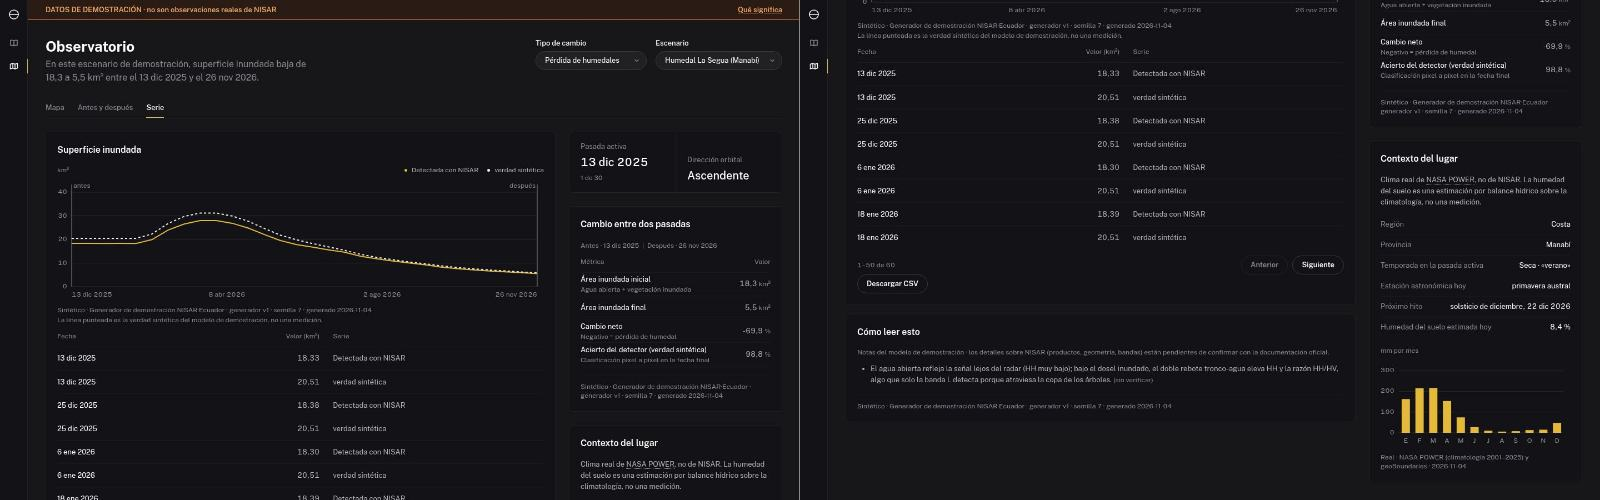
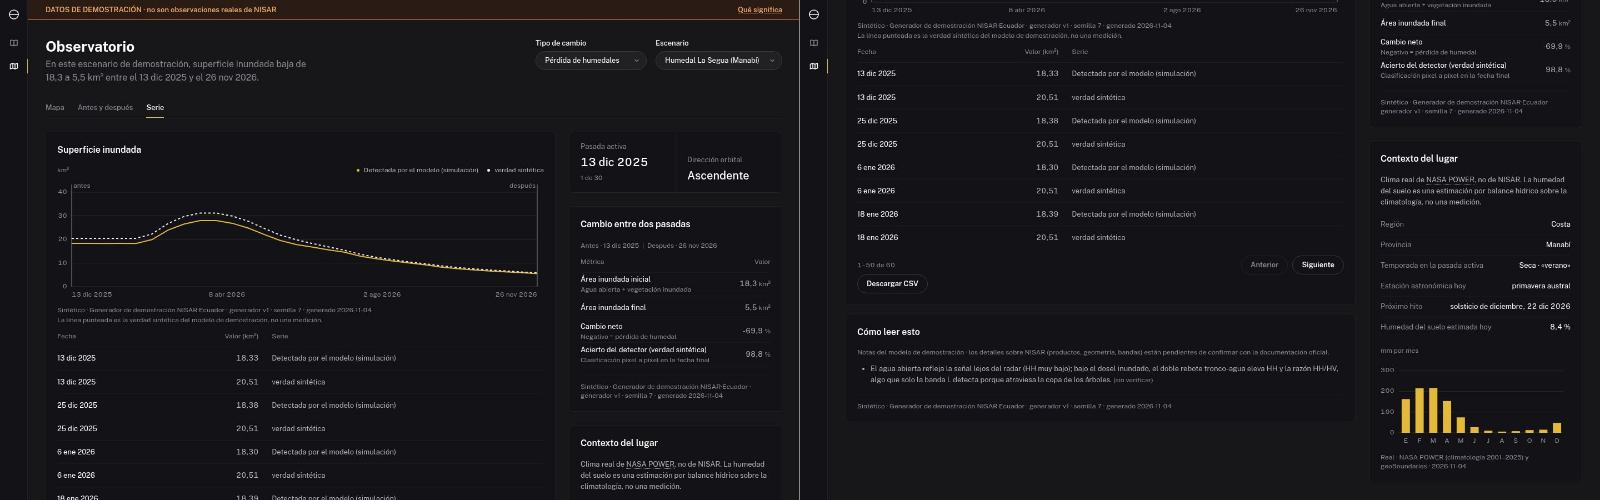
fix(datos): el demo no atribuye detecciones a NISAR

diff --git a/frontend/src/pantallas/observatorio/observatorio.test.tsx b/frontend/src/pantallas/observatorio/observatorio.test.tsx
@@ -45,8 +45,8 @@ const CAMBIO = {
   capas_extra: [], clasificacion: null, notas: [], tablas: [], vectores: null, origen: origenSint,
   metricas: [{ etiqueta: 'Área inundada inicial', valor: '26,8', unidad: 'km²', ayuda: 'Agua abierta + vegetación inundada' }],
   series: [{ titulo: 'Superficie inundada', unidad: 'km²', origen: origenSint, puntos: [
-    ['2026-04-12T00:00:00Z', 26.8, 'Detectada con NISAR'], ['2026-04-24T00:00:00Z', 20.1, 'Detectada con NISAR'],
-    ['2026-05-06T00:00:00Z', 9.0, 'Detectada con NISAR'], ['2026-05-18T00:00:00Z', 5.5, 'Detectada con NISAR'],
+    ['2026-04-12T00:00:00Z', 26.8, 'Detectada por el modelo (simulación)'], ['2026-04-24T00:00:00Z', 20.1, 'Detectada por el modelo (simulación)'],
+    ['2026-05-06T00:00:00Z', 9.0, 'Detectada por el modelo (simulación)'], ['2026-05-18T00:00:00Z', 5.5, 'Detectada por el modelo (simulación)'],
     ['2026-05-18T00:00:00Z', 5.8, 'Verdad del modelo'],
   ] }],
 }

diff --git a/datos/proveedores/demo.py b/datos/proveedores/demo.py
@@ -70,11 +70,21 @@ def _slug(texto: str) -> str:
 _NUM = re.compile(r"^([−+\-]?\d+(?:[\s\u2009\u00a0]\d{3})*(?:,\d+)?(?:[\s\u2009\u00a0]mil)?)\s*(.*)$")
 
 
+_DETECTADA_NISAR = re.compile(r"detectad[oa]s?\s+(?:con|por)\s+NISAR", re.IGNORECASE)
+
+
+def _sin_nisar(texto: str) -> str:
+    """Los datos de demostración no los detecta NISAR: lo hace el modelo de simulación (regla 7).
+    Se aplica a series, métricas, tablas y leyendas; las `notas` conservan su propio aviso."""
+    texto = _DETECTADA_NISAR.sub("Detectada por el modelo (simulación)", str(texto))
+    return re.sub(r"\bNISAR\b", "el modelo", texto)
+
+
 def _metrica(etiqueta: str, valor: str, ayuda: str) -> Metrica:
     """Separa «12,3 km²» en valor y unidad; si no tiene forma numérica, deja el texto entero."""
     m = _NUM.match(str(valor).strip())
     num, unidad = (m.group(1).strip(), m.group(2)) if m else (str(valor), "")
-    return Metrica(etiqueta=str(etiqueta), valor=num, unidad=unidad, ayuda=str(ayuda))
+    return Metrica(etiqueta=_sin_nisar(etiqueta), valor=num, unidad=unidad, ayuda=_sin_nisar(ayuda))
 
 
 def _utc(d: date) -> datetime:
@@ -136,10 +146,10 @@ def _celda(v):
     except (TypeError, ValueError):
         pass
     if isinstance(v, (bool, np.bool_)):
-        return str(v)
+        return _sin_nisar(str(v))
     if isinstance(v, (int, float, np.floating, np.integer)):
         return float(v)
-    return str(v)
+    return _sin_nisar(str(v))
 
 
 def _capa_de_panel(escenario_id, adquisicion_id, panel, variable, polarizacion, bbox, origen,
@@ -148,7 +158,7 @@ def _capa_de_panel(escenario_id, adquisicion_id, panel, variable, polarizacion, 
         escenario_id=escenario_id, adquisicion_id=adquisicion_id, variable=variable,
         polarizacion=polarizacion, unidad=panel.unidad, paleta=_paleta(panel.paleta),
         vmin=float(panel.vmin if vmin is None else vmin), vmax=float(panel.vmax if vmax is None else vmax),
-        leyenda=[(str(e), str(c)) for e, c in panel.leyenda] if panel.leyenda else None,
+        leyenda=[(_sin_nisar(e), str(c)) for e, c in panel.leyenda] if panel.leyenda else None,
         datos=_rejilla(panel.datos), bbox=bbox, origen=origen, instante=instante,
     )
 
@@ -159,8 +169,8 @@ def _serie_contrato(s: nisar.Serie, origen: Origen) -> SerieTemporal:
         if not math.isfinite(fila.valor):
             continue  # NaN no viaja en JSON; un hueco en la serie es un punto ausente
         t = pd.Timestamp(fila.fecha).to_pydatetime().replace(tzinfo=timezone.utc)
-        puntos.append((t, float(fila.valor), str(fila.serie)))
-    return SerieTemporal(titulo=s.titulo, unidad=s.unidad, puntos=puntos, origen=origen)
+        puntos.append((t, float(fila.valor), _sin_nisar(fila.serie)))
+    return SerieTemporal(titulo=_sin_nisar(s.titulo), unidad=s.unidad, puntos=puntos, origen=origen)
 
 
 # --- sitio del mapa (réplica de app.py:sitio_en_mapa; no se importa app.py) ---------------------
@@ -435,7 +445,7 @@ class ProveedorDemostracion:
         if a.tabla is not None:
             tablas.append(TablaResultado(
                 titulo="Resultados por parcela" if escena.tipo == "agricultura" else "Resultados",
-                columnas=[str(c) for c in a.tabla.columns],
+                columnas=[_sin_nisar(c) for c in a.tabla.columns],
                 filas=[[_celda(x) for x in fila] for fila in a.tabla.itertuples(index=False, name=None)],
                 origen=esc.origen))
         vectores = None

diff --git a/tests/datos/test_proveedor_demo.py b/tests/datos/test_proveedor_demo.py
@@ -365,3 +365,31 @@ def test_simular_fuera_de_ecuador_valueerror():
     assert en_ecuador(-2.0, -79.9) and not en_ecuador(50.0, 0.0)
     with pytest.raises(ValueError, match="fuera de Ecuador"):
         ProveedorDemostracion().simular("ec_la_segua", {"lat": 50.0, "lon": 0.0})
+
+
+def _textos_sin_notas(r) -> list[str]:
+    """Todo texto de un ResultadoCambio salvo las notas (que llevan su propio aviso)."""
+    t = [m.etiqueta for m in r.metricas] + [m.ayuda for m in r.metricas]
+    for s in r.series:
+        t += [s.titulo, s.unidad] + [p[2] for p in s.puntos]
+    for tb in r.tablas:
+        t += [tb.titulo] + list(tb.columnas) + [c for f in tb.filas for c in f if isinstance(c, str)]
+    for capa in [r.cambio, r.clasificacion, *r.capas_extra]:
+        if capa is not None:
+            t += [capa.variable, capa.unidad] + [x for par in (capa.leyenda or []) for x in par]
+    return [x for x in t if isinstance(x, str)]
+
+
+def test_ninguna_etiqueta_del_demo_atribuye_a_nisar_una_deteccion(prov):
+    for e in prov.escenarios():
+        a, d = _por_defecto(prov, e.id)
+        r = prov.cambio(e.id, a, d, None)
+        for texto in _textos_sin_notas(r):
+            assert "NISAR" not in texto.upper(), f"{e.id}: «{texto}»"
+
+
+def test_la_serie_detectada_se_llama_detectada_por_el_modelo(prov):
+    a, d = _por_defecto(prov, "ec_la_segua")
+    r = prov.cambio("ec_la_segua", a, d, None)
+    nombres = {p[2] for s in r.series for p in s.puntos}
+    assert "Detectada por el modelo (simulación)" in nombres
